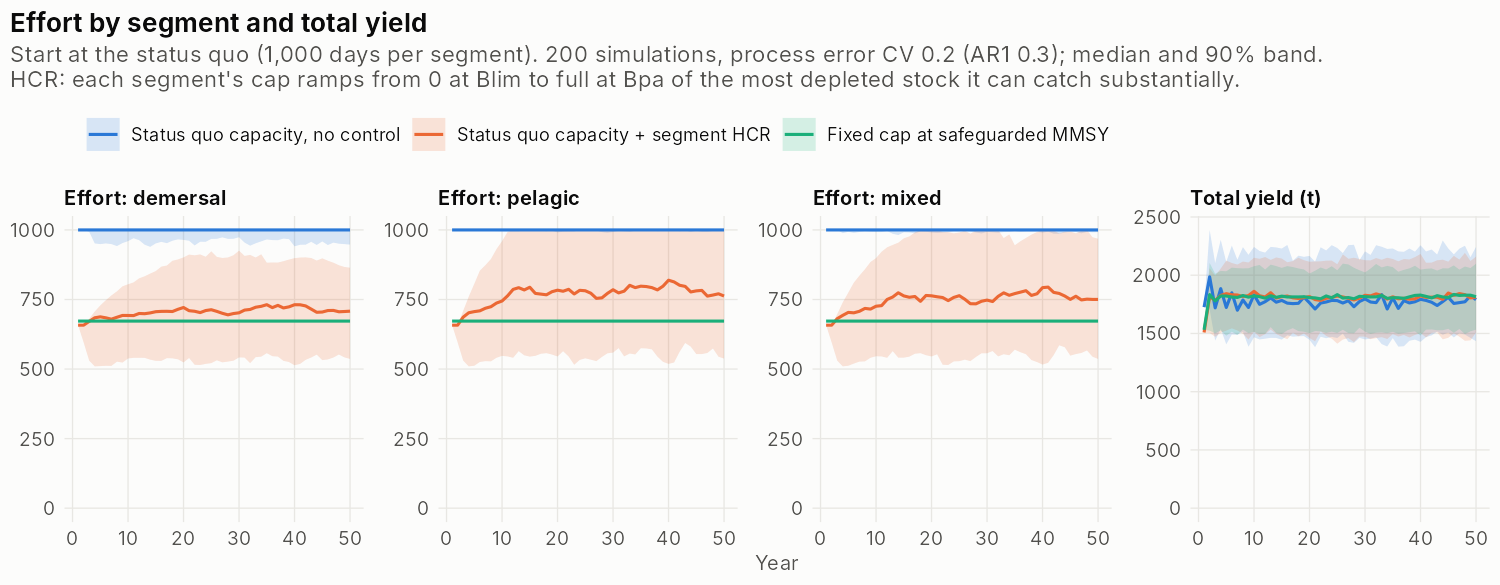
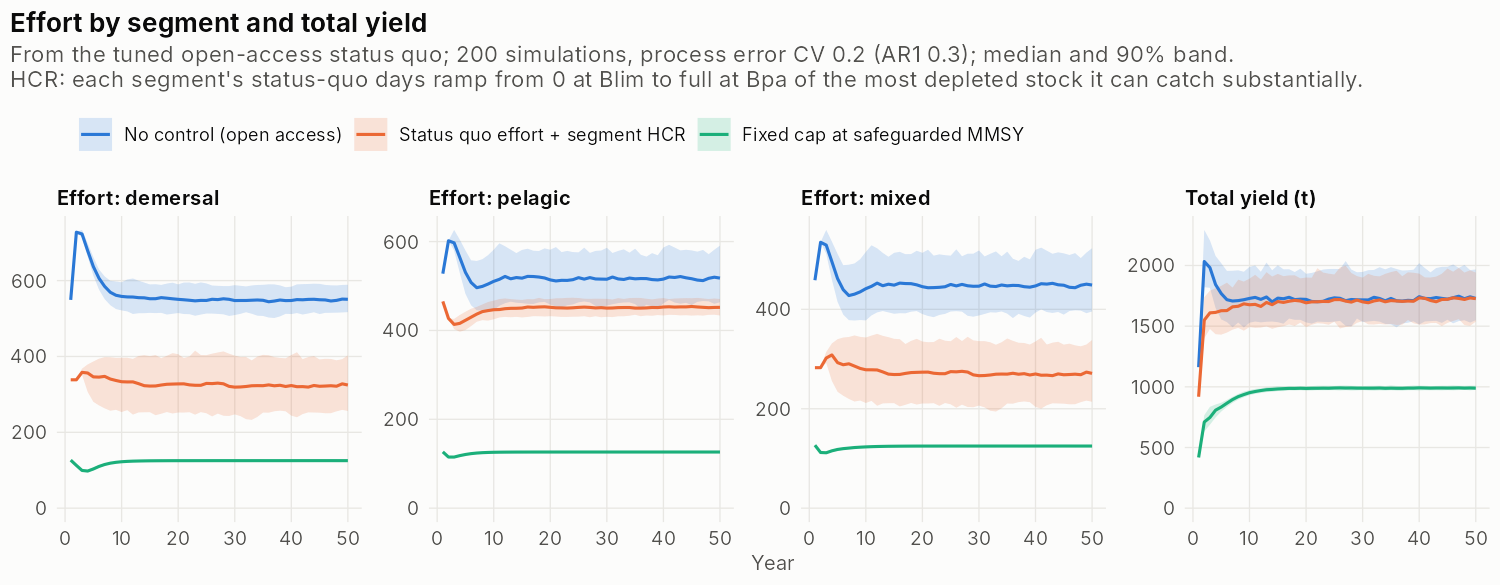
dev-mmsy: vessel heterogeneity in effort supply and ms_tune() for the open-access fleet composition
Effort by segment moves towards capacity x the share of vessels that break
even (lognormal vessel efficiency); active vessels' mean efficiency is the
upper-tail mean. ms_tune() solves the daily costs by segment for target
shares of active days and a stock-status target (Newton, vectorised
Jacobian). Figures start from the tuned status quo; HCR scales status-quo
effort.

Claude-Session: https://claude.ai/code/session_01N6VjbRjKZChkyPJ4nwFJbR

diff --git a/dev/mmsy/README.md b/dev/mmsy/README.md
@@ -19,6 +19,7 @@ Run the scripts from the repository root, with cpueTargeting installed.
 | `scripts/06_optimise.R` | Constrained MMSY by lever set; demersal and pelagic caps with the mixed segment as a free agent; leakage |
 | `scripts/07_viability_closure.R` | Constrained MMSY with a segment viability floor and a closure of the shallow reef métier |
 | `scripts/08_fig_options.R` | Summary figure `figs/opt_options.png` |
+| `scripts/09_tune.R` | `ms_tune()`: daily costs that make 35/35/30% of active days an open-access equilibrium, for two status targets |
 | `R/plots.R`, `scripts/05_plots.R` | Figures of stock status, F, effort and yield, saved to `figs/`. Covers equilibrium against effort, Kobe plots of the status quo against the safeguarded optima, and projections from the status quo. Uses the balanced defaults |
 
 ## System
@@ -102,7 +103,38 @@ Run the scripts from the repository root, with cpueTargeting installed.
    * Blim → Bpa;
    * result: P(B < Blim) = 0, mean yield 581.
 
-## Specialist efficiency and the capacity-limited status quo (current defaults)
+## Tuning the fleet to an open-access equilibrium (current defaults)
+
+**Vessel heterogeneity.** Vessel efficiency within a segment is lognormal, with mean 1 and CV `vessel_cv` = 0.25, as in the random vessel effect of the logbook.
+
+* Each year a segment's days move towards capacity × the share of its vessels that break even (`phi` is the adjustment rate).
+* The active vessels' mean efficiency is the mean of that upper tail.
+
+This replaces identical vessels, under which the composition of an open-access fleet is a knife-edge. A tiny change in cost hands the whole fishery to one segment, because every vessel in a segment breaks even at the same stock level. With heterogeneity, effort falls off smoothly as profit falls, and profit at equilibrium is positive: the more efficient vessels earn more than the marginal one.
+
+**`ms_tune()`** solves the daily cost multipliers by segment (G unknowns) so that the open-access equilibrium hits G targets:
+
+* the shares of active days (G − 1 values);
+* one status target: median B/Bmsy, the weakest stock, or total days.
+
+It uses Newton steps with a forward-difference Jacobian. The base point and the G perturbed points run in one vectorised call, warm-started and averaged over 30 years, and the best iterate is kept. Each tuning takes about 45 s. Results with capacity 1,000 days per segment and γ = 1.5:
+
+| Status target | Daily costs (dem/pel/mix) | Active days (shares) | Open-access stocks |
+|---|---|---|---|
+| Median B/Bmsy = 0.9 | 1.00/1.69/1.31 | 370/364/311 (0.354/0.348/0.298) | median 0.90, Dentex lowest at 0.60 |
+| Weakest stock = 0.4 (default in `05_plots.R`) | 0.63/1.08/0.84 | 549/528/459 (0.358/0.344/0.299) | yield 1,745, profit 1,489; Dentex 0.40, Seriola 0.47, blackspot seabream 0.50 |
+
+**From the tuned status quo (weakest stock 0.4):**
+
+| Option | Days (dem/pel/mix) | Yield | Profit |
+|---|---|---|---|
+| Safeguarded MMSY, one cap (same point as MMEY) | 125/126/125 | 991 | 2,386 |
+| Safeguarded MMSY, segment caps each ≥ 20% | 132/380/136 | 1,521 | 2,735 |
+
+* **Dentex is again the choke stock, and effort caps barely reach it.** When days are cut, fishers spend the remaining days on the most valuable métier, the shallow reef. Dentex keeps an F/Fmsy of about 1.65 at Bpa even with three-quarters of the days removed. Segment caps recover much of the yield, and a métier measure (reef closure, partial or seasonal) is the obvious next test.
+* **The segment HCR must scale status-quo effort, not registered capacity.** Scaled to capacity, the rule never binds. Scaled to status-quo days, it cuts effort by about 40% with no loss of yield (about 1,720), and most stocks recover. Dentex stays at about 0.40.
+
+## Specialist efficiency and the capacity-limited status quo
 
 **Type efficiency.** Specialists fish more efficiently than generalists.
 
